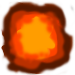
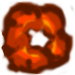
more explosion images

diff --git a/Ball.py b/Ball.py
@@ -23,7 +23,8 @@ class Ball():
                       pygame.image.load("Images/Ball/BallExplode4.png"),
                       pygame.image.load("Images/Ball/BallExplode5.png"),
                       pygame.image.load("Images/Ball/BallExplode6.png"),
-                      pygame.image.load("Images/Ball/BallExplode7.png"),]
+                      pygame.image.load("Images/Ball/BallExplode7.png"),
+                      pygame.image.load("Images/Ball/BallExplode8.png"),]
         
         self.rect = self.rect.move(startPos)
 
